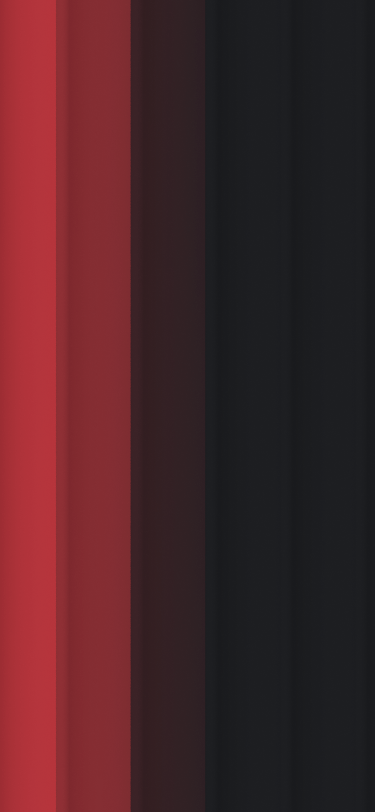
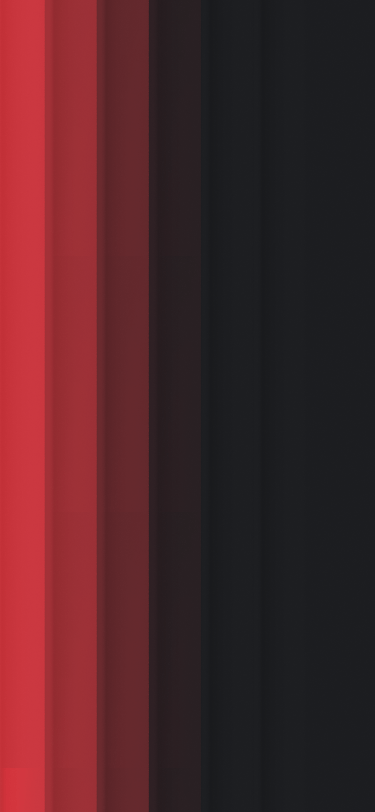
editing pictures

Changed region(s): [[0.176, 0.0, 0.4107, 1.0], [0.0, 0.0, 0.1467, 1.0]]

diff --git a/src/css/hero.css b/src/css/hero.css
@@ -15,19 +15,8 @@
   --bg-t-image2x: url(../img/hero/t-hero-bg@2x.png);
   --bg-m-image: url(../img/hero/m-hero-bg.png);
   --bg-m-image2x: url(../img/hero/m-hero-bg@2x.png);
-}
-
-.section-hero {
   --main-color: #ed3b44;
   --font-color: var(--third-color);
-  --bg-d-image: url(../img/hero/d-hero-bg.png);
-  --bg-d-image2x: url(../img/hero/d-hero-bg@2x.png);
-  --bg-color: linear-gradient(
-    270deg,
-    var(--second-color) 49.69%,
-    var(--third-color) 67.71%,
-    var(--main-color) 99.91%
-  );
 }
 
 /*======= Hero Mobile Styles   ============*/
